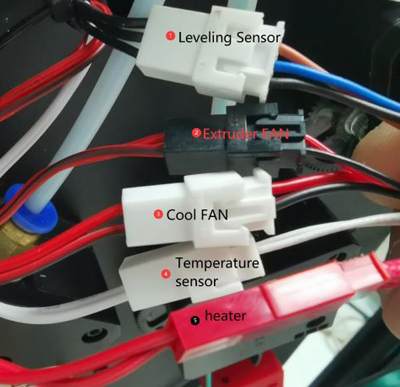
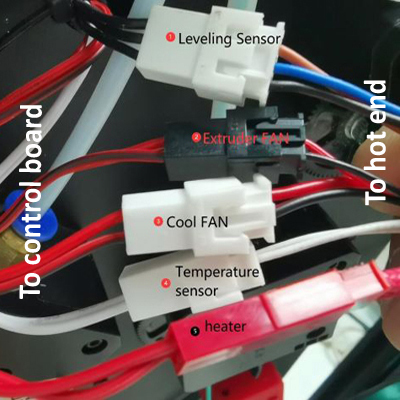
update troubleshooting for Z9V5

diff --git a/Z9V5/Z9V5_FAQ/Issue_heating/readme.md b/Z9V5/Z9V5_FAQ/Issue_heating/readme.md
@@ -1,22 +1,35 @@
-## Heating Issues
-### 1. Check the startup temperature
-First, turn on the power and observe the current temperature display on the LCD display. If the hotbed or hotend (nozzle) is still hot, wait for them to cool before turning it on.  
+# Heating Issues
+## Hot bed and hot end wiring
+![](./Hotbed_wiring.jpg)  ![](./Hotend_wiring.jpg)  
+
+-----
+## 1. Check the startup temperature
+First, turn on the power and watch the current temperature display on the LCD display. If the hot bed or hot end (nozzle) is still hot, wait for them to get cool.  
 ![](./LCD_screen.jpg)  
 > 
-    1: hot end(nozzle) temperature       2: hotbed temperature
-Normally, the current temperature of the hot end and hot bed should be approximately the same as room temperature. 
-#### 1.1 Hot bed shows 0℃: 
-If the current temperature of hot bed shows 0 degrees, it means that the temperature sensor of the hot bed is disconnected, please check whether the wiring is well connected.   
-![](./Hotbed_wiring.jpg)
-#### 1.2 Hot end shows 0℃
-If the current temperature of the hot end shows 0 degrees, it means that the temperature sensor of the hot end is disconnected, please check whether the wiring is well connected.   
-#### 1.3 Hot end shows round of 100℃
-If the temperature of the hot end shows a high temperature (about 100℃), but the nozzle is actually cool, then it is very likely that you have connected the temperature sensor of the hot end to the fan by mistake, please pay attention to check the wiring of the hot end.   
-![](./Hotend_wiring.jpg)     
-        
- 
-### 2. Hot end issue
-#### 2.1 When heating the hot end, the temperature does not rise.
+    1: current hotend(nozzle) temperature       2: current hotbed temperature
+Under normal conditions, the current temperature of hot end and hot bed should be approximately the same as the room temperature. 
+### 1.1 Hot bed shows 0℃: 
+If the current temperature of hot bed shows 0 degrees, it means that the temperature sensor of the hot bed is disconnected, please check following the below steps:
+- Is the wiring is connected well? (Refer to the wiring picture above).
+- Is the temperature sensor damaged. You can connect the hot bed temperature sensor to hot end connecor and then watch the current hotend temperaure on LCD screen, if the LCD screen can show correct temperature, it means the temperature sensor of hot bed is okay. 
+- Open the control box and check if the hot bed temperature sensor wire is disconnected from the control board.
+- Check if the hot bed extension cable is damaged.
+
+### 1.2 Hot end shows 0℃
+If the current temperature of the hot end shows 0 degrees, it means that the temperature sensor of the hot end is disconnected, please check:
+- Is the wiring is connected well? (Refer to the wiring picture above).
+- Is the temperature sensor damaged. You can connect the hot end temperature sensor to hot bed connecor and then watch the current hotbed temperaure on LCD screen, if the LCD screen can show correct temperature, it means the temperature sensor of hot end is okay.
+- Open the control box and check if the hot end temperature sensor wire is disconnected from the control board.
+- Check if the hot end extension cable is damaged.
+
+### 1.3 Hot end shows round of 150℃
+If the temperature of the hot end shows a high temperature (about 150℃) even if the nozzle is actually cool, then it is very likely that you have connected the temperature sensor of the hot end to the fan by mistake, please pay attention to check the wiring of the hot end.   
+
+
+-----    
+## 2. Hot end issue
+### 2.1 When heating the hot end, the temperature does not rise.
 - Check if the heater connector plug well.  
 ![](./hotend_heater.jpg)    
 - Check if the pin of the heater connector is well.  
@@ -28,7 +41,7 @@ If the temperature of the hot end shows a high temperature (about 100℃), but t
 - [:link:Open the control box](../How_to_open_the_control_box.jpg) and check if the LED4 will light when heating the hotend. 
 ![](../LEDs.jpg)
 
-#### 2.2 The hot end cannot be heated to the set temperature for a while
+### 2.2 The hot end cannot be heated to the set temperature for a while
 If the hotend temperature is raise, but it can't be reached to the setting temperature. LCD will shows **hot end heating fail** after a period of time.  
 ![](./hotend_heating_fail.jpg)
 
@@ -36,13 +49,13 @@ If the hotend temperature is raise, but it can't be reached to the setting tempe
 ![](sensorhotenddrop.jpg)
 - 2.2.2 **If hot end can be heating to 200℃, but it is unstable**, please refer to the [**section 2.3**](#23-the-temperature-of-the-hot-end-is-unstable-sometimes-show-a-run-away-issue). 
 
-#### 2.3 The temperature of the hot end is unstable, sometimes show a "run away" issue
+### 2.3 The temperature of the hot end is unstable, sometimes show a "run away" issue
 ![](./runaway.jpg)
   - **Step 1**: Check the cooling FAN installation, if it is blowed inside to the housing, please change to blowed outside.
 ![](./coolingfan.jpg)
   - **Step 2**: [Upload the newest firmware to the printer](https://github.com/ZONESTAR3D/Firmware/tree/master/Z9/Z9V5) and do once  ***Control>>Restore Defaults"***, and then heating again.
 
-##### If you did the above two steps but the question can't be solved, do the below steps: ***Control>>Configre>>Hotend PID>>PID auto tune: 200 {200 for printing PLA or 240 for printing PETG/ABS}***, and wait until it done. [:movie_camera: **Video Tutorial**](./PID_Auto_Tune.gif). Here are some PID parameters we measured for your reference:   
+#### If you did the above two steps but the question can't be solved, do the below steps: ***Control>>Configre>>Hotend PID>>PID auto tune: 200 {200 for printing PLA or 240 for printing PETG/ABS}***, and wait until it done. [:movie_camera: **Video Tutorial**](./PID_Auto_Tune.gif). Here are some PID parameters we measured for your reference:   
   |  HOTEND TYPE  |  Temperature |      P       |     I     |     D     |
   |:-------------:|:------------:|:------------:|:---------:|:---------:|
   |   Common      |              |     22.2     |    1.08   |    114.0  |
@@ -53,24 +66,24 @@ If the hotend temperature is raise, but it can't be reached to the setting tempe
   |     E4        |     200℃    |     12.8     |    0.61   |    70.2   |
   |     E4        |     240℃    |     10.1     |    0.45   |    56.0   |
   
-##### If you did all the above steps but the question can't be solved, please [**contact with our support team**](#contact-with-our-support-team) or repleace a new cartridge heater and try again. 
+#### If you did all the above steps but the question can't be solved, please [**contact with our support team**](#contact-with-our-support-team) or repleace a new cartridge heater and try again. 
 
-### 3. Hot bed issue
-#### 3.1 LCD shows hotbed max temperature after power on.
+-----
+## 3. Hot bed issue
+### 3.1 LCD shows hotbed max temperature after power on.
 ![](./hotbed_max_temperature.jpg)   
 - 3.1.1 Disconnect the wire of the hotbed temperature sensor and try again. If it was fixed, replace a new temperature sensor.
 - 3.1.2 [:link: Open the control box](../How_to_open_the_control_box.jpg) and discounect the temperature sensor wire from the control board. If it was fixed, replace a new temperature sensor wire. If it wasn't solved, replace a new control board.
 
-#### 3.2 When heating the hot bed, the temperature does not rise.
+### 3.2 When heating the hot bed, the temperature does not rise.
 - 3.2.1 Check if [:point_up: the power wire of hot bed](#11-hot-bed-shows-0℃) is connected well.
 - 3.2.2 [:link: Open the control box](../How_to_open_the_control_box.jpg) and check if the power wire of hot bed connect well with the control board.
 - 3.2.2 [:link: Open the control box](../How_to_open_the_control_box.jpg) and check if the [:point_up: LED3](#21-when-heating-the-hot-end-the-temperature-does-not-rise) will light when heating the hot bed, if not, it means the MOSFET of the control boad is damaged and need to be replaced.
 
-#### 3.3 The hot bed can be heating to over 100℃.
+### 3.3 The hot bed can be heating to over 100℃.
 - 3.3.1 Do not put the fan or air conditioner outlet toward the machine.
 - 3.3.2 If the temperature of the room is low (<20 ℃), try to wrap around the machine.
 
---------
+-----
 ## Contact with our support team
 :email: If you can't find a solution to solve your problem after readed the FAQ , please contact our technical support team : support@zonestar3d.com .
-
